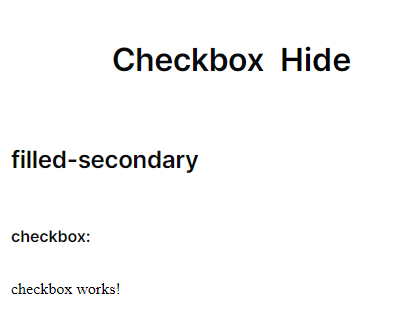
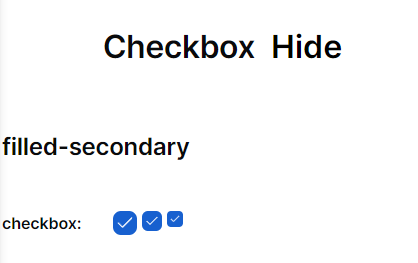
feat: add checkbox

diff --git a/src/app/shared/ui-kit/checkbox/checkbox.component.ts b/src/app/shared/ui-kit/checkbox/checkbox.component.ts
@@ -1,10 +1,78 @@
-import { Component } from '@angular/core';
+import { Component, Input, ViewEncapsulation, forwardRef } from '@angular/core'
+import { MibCheckboxSize } from './interfaces/badge.interface'
+import { NG_VALUE_ACCESSOR } from '@angular/forms'
+import { animate, style, transition, trigger } from '@angular/animations'
 
 @Component({
-  selector: 'mib-checkbox',
-  templateUrl: './checkbox.component.html',
-  styleUrls: ['./checkbox.component.scss']
+	host: {
+		class: 'flex_align-self-start'
+	},
+	selector: 'mib-checkbox',
+	templateUrl: './checkbox.component.html',
+	styleUrls: ['./checkbox.component.scss'],
+	encapsulation: ViewEncapsulation.None,
+	providers: [
+		{
+			provide: NG_VALUE_ACCESSOR,
+			useExisting: forwardRef(() => CheckboxComponent),
+			multi: true
+		}
+	],
+	animations: [
+		trigger('checkboxAnimation', [
+			transition(':enter', [
+				style({
+					transform: 'translate(-50%,-90%) rotateX(-60deg)'
+				}),
+				animate(
+					'300ms ease',
+					style({
+						transform: 'translate(-50%,-50%) rotateX(0deg)'
+					})
+				)
+			]),
+			transition(':leave', [
+				style({
+					transform: 'translate(-50%,-50%) rotateX(0deg)'
+				}),
+				animate(
+					'200ms ease',
+					style({
+						transform: 'translate(-50%,-20%) rotateX(60deg)'
+					})
+				)
+			])
+		])
+	]
 })
 export class CheckboxComponent {
+	@Input() size: MibCheckboxSize = 'l'
+	@Input() class: string = ''
 
+	public value: boolean = false
+
+	ngAfterViewInit() {}
+
+	onChange: any = () => {}
+	onTouch: any = () => {}
+
+	writeValue(value: boolean): void {
+		this.value = value
+		this.onChange(this.value)
+	}
+
+	registerOnChange(fn: any): void {
+		this.onChange = fn
+	}
+
+	registerOnTouched(fn: any): void {
+		this.onTouch = fn
+	}
+
+	onCheckboxChange(event: Event): void {
+		event.stopPropagation()
+		event.preventDefault()
+		this.value = !this.value
+		this.writeValue(this.value)
+	}
 }

diff --git a/src/styles/components/_checkbox.scss b/src/styles/components/_checkbox.scss
@@ -1,0 +1,85 @@
+@import 'src/styles/helpers/_icon_tools.scss';
+
+$trs: 0.2s;
+// $trs: 0.2s ease;
+$checkbox: 0.3s ease-in-out;
+$skeleton: 1.5s ease-in-out;
+$floating: 2.5s ease-in-out;
+$spinner: 0.6s linear;
+
+@mixin checkbox-l {
+	width: 24px;
+	height: 24px;
+	border-radius: 8px;
+	mib-ref-icon {
+		@include icon-size(20px);
+	}
+}
+
+@mixin checkbox-m {
+	width: 20px;
+	height: 20px;
+	border-radius: 6px;
+	mib-ref-icon {
+		@include icon-size(16px);
+	}
+}
+
+@mixin checkbox-s {
+	width: 16px;
+	height: 16px;
+	border-radius: 4px;
+	mib-ref-icon {
+		@include icon-size(12px);
+	}
+}
+
+@mixin checkbox-control {
+	transition: $trs;
+	border: 1px solid var(--wgr-tertiary);
+	background-color: var(--wgr-secondary);
+	position: relative;
+	&.checked {
+		background: var(--mc-default);
+		border-color: transparent;
+	}
+}
+
+@mixin checkbox-icon {
+	position: absolute;
+	z-index: 5;
+	opacity: 1;
+	transform: translate(-50%, -50%) rotateX(0deg);
+	top: 50%;
+	left: 50%;
+}
+
+.checkbox {
+	position: relative;
+	cursor: pointer;
+
+	.text {
+		user-select: none;
+	}
+
+	.mib-ref-icon {
+		@include icon-color(var(--wgr-primary));
+		@include checkbox-icon;
+	}
+	&-control {
+		@include checkbox-control;
+		&_l {
+			@include checkbox-l;
+		}
+		&_m {
+			@include checkbox-m;
+		}
+		&_s {
+			@include checkbox-s;
+		}
+	}
+	&-input {
+		position: absolute;
+		left: -9999px;
+	}
+}

diff --git a/src/app/shared/ui-kit/checkbox/checkbox.component.html b/src/app/shared/ui-kit/checkbox/checkbox.component.html
@@ -1,1 +1,21 @@
-<p>checkbox works!</p>
+<label class="flex flex_align-center checkbox w100" [ngClass]="class">
+	<input
+		type="checkbox"
+		[checked]="value"
+		(click)="onCheckboxChange($event)"
+		class="checkbox-input"
+	/>
+	<span
+		[class.checked]="value"
+		class="checkbox-control flex flex_center"
+		[ngClass]="'checkbox-control_' + size"
+	>
+		<mib-ref-icon
+			@checkboxAnimation
+			*ngIf="value"
+			class="stroke"
+			name="fi_check"
+		></mib-ref-icon>
+	</span>
+	<ng-content></ng-content>
+</label>

diff --git a/src/app/shared/modules/mib-ui/mib-ui.component.html b/src/app/shared/modules/mib-ui/mib-ui.component.html
@@ -913,10 +913,12 @@
 <div *ngIf="isShownSwitch" class="wrapper">
 	<h3>filled-secondary</h3>
 	<mib-spacing type="l"></mib-spacing>
-	<div class="input-wrapper">
+	<div style="display: flex; gap: 2rem">
 		<h5>checkbox:</h5>
 		<div class="test-badge">
 			<mib-checkbox></mib-checkbox>
+			<mib-checkbox size="m"></mib-checkbox>
+			<mib-checkbox size="s"></mib-checkbox>
 		</div>
 	</div>
 	<mib-spacing type="l"></mib-spacing>

diff --git a/src/app/shared/ui-kit/checkbox/checkbox.module.ts b/src/app/shared/ui-kit/checkbox/checkbox.module.ts
@@ -1,10 +1,11 @@
 import { NgModule } from '@angular/core'
 import { CommonModule } from '@angular/common'
 import { CheckboxComponent } from './checkbox.component'
+import { RefIconModule } from '../ref-icon/ref-icon.module'
 
 @NgModule({
 	declarations: [CheckboxComponent],
 	exports: [CheckboxComponent],
-	imports: [CommonModule]
+	imports: [CommonModule, RefIconModule]
 })
 export class CheckboxModule {}

diff --git a/src/styles/_colors.vars.scss b/src/styles/_colors.vars.scss
@@ -21,7 +21,7 @@
 
 	/* black-text-icons */
 	--bti-primary: #090a0c;
-	--bti-secondary: #2d3339;
+	--bti-secondary: #24292e;
 	--bti-tertiary: #5e676e;
 	--bti-quaternary: #95999d;
 

diff --git a/src/styles/components/main.scss b/src/styles/components/main.scss
@@ -4,3 +4,4 @@
 @import './link';
 @import './navbar-point';
 @import './table';
+@import './checkbox';

diff --git a/src/app/shared/ui-kit/checkbox/interfaces/badge.interface.ts b/src/app/shared/ui-kit/checkbox/interfaces/badge.interface.ts
@@ -1,2 +1,1 @@
-export interface BadgeInterface {
-}
+export type MibCheckboxSize = 'l' | 'm' | 's'
